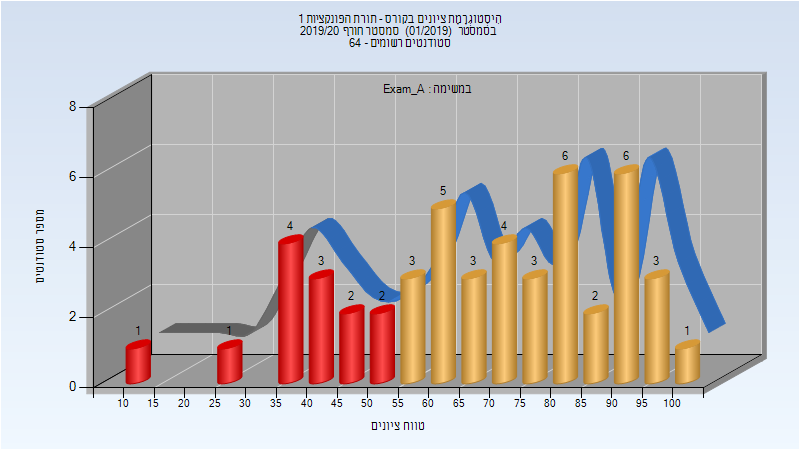
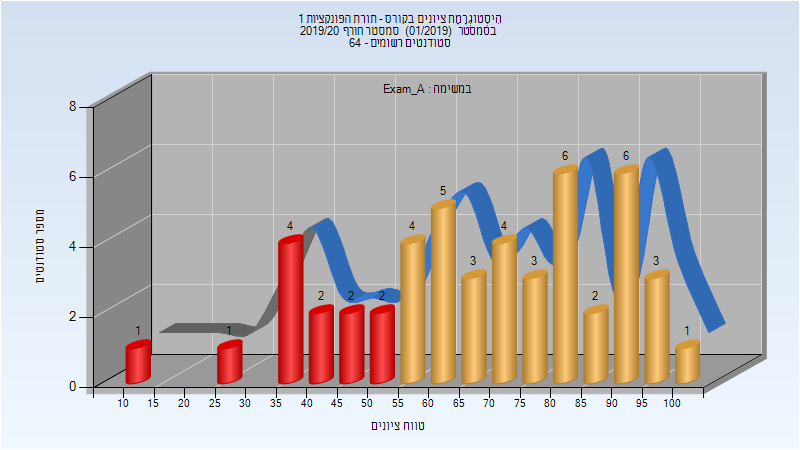
Deploy michael-maltsev/technion-histograms to github.com/michael-maltsev/technion-histograms.git:gh-pages

Changed region(s): [[0.375, 0.4978, 0.5, 0.7156], [0.5, 0.4978, 0.5625, 0.6222], [0.5625, 0.4044, 0.5938, 0.5289]]

diff --git a/104285/index.html b/104285/index.html
@@ -786,6 +786,58 @@
 </tr>
 </tbody>
 </table>
+<h3>מבחן מועד ב'</h3>
+<p><img src="201901/Exam_B.png" alt="201901 Exam_B" /></p>
+<table>
+<thead>
+<tr>
+<th>סטודנטים</th>
+<th>עברו/נכשלו</th>
+<th>אחוז עוברים</th>
+<th>ציון מינימלי</th>
+<th>ציון מקסימלי</th>
+<th>ממוצע</th>
+<th>חציון</th>
+</tr>
+</thead>
+<tbody>
+<tr>
+<td>21</td>
+<td>15/6</td>
+<td>71</td>
+<td>6</td>
+<td>100</td>
+<td>64.714</td>
+<td>71</td>
+</tr>
+</tbody>
+</table>
+<h3>סופי מועד ב'</h3>
+<p><img src="201901/Final_B.png" alt="201901 Final_B" /></p>
+<table>
+<thead>
+<tr>
+<th>סטודנטים</th>
+<th>עברו/נכשלו</th>
+<th>אחוז עוברים</th>
+<th>ציון מינימלי</th>
+<th>ציון מקסימלי</th>
+<th>ממוצע</th>
+<th>חציון</th>
+</tr>
+</thead>
+<tbody>
+<tr>
+<td>21</td>
+<td>16/5</td>
+<td>76</td>
+<td>6</td>
+<td>100</td>
+<td>66</td>
+<td>74</td>
+</tr>
+</tbody>
+</table>
 <h3>סופי</h3>
 <p><img src="201901/Finals.png" alt="201901 Finals" /></p>
 <table>

diff --git a/104122/index.html b/104122/index.html
@@ -251,11 +251,11 @@
 <tbody>
 <tr>
 <td>49</td>
-<td>36/13</td>
-<td>73</td>
+<td>37/12</td>
+<td>76</td>
 <td>13</td>
 <td>100</td>
-<td>67.735</td>
+<td>68.061</td>
 <td>71</td>
 </tr>
 </tbody>
@@ -277,11 +277,11 @@
 <tbody>
 <tr>
 <td>49</td>
-<td>41/8</td>
-<td>84</td>
+<td>42/7</td>
+<td>86</td>
 <td>12</td>
 <td>100</td>
-<td>73.306</td>
+<td>73.592</td>
 <td>77</td>
 </tr>
 </tbody>

diff --git a/234123/index.html b/234123/index.html
@@ -448,12 +448,12 @@
 </thead>
 <tbody>
 <tr>
-<td>225</td>
-<td>198/27</td>
+<td>224</td>
+<td>198/26</td>
 <td>88</td>
 <td>22</td>
 <td>99</td>
-<td>77.796</td>
+<td>77.929</td>
 <td>82</td>
 </tr>
 </tbody>

diff --git a/104285/README.md b/104285/README.md
@@ -244,6 +244,22 @@
 | ---- | ---- | ---- | ---- | ---- | ---- | ---- |
 | 56 | 44/12 | 79 | 19 | 100 | 68.75 | 70.5 |
 
+### מבחן מועד ב'
+
+![201901 Exam_B](201901/Exam_B.png)
+
+| סטודנטים | עברו/נכשלו | אחוז עוברים | ציון מינימלי | ציון מקסימלי | ממוצע | חציון |
+| ---- | ---- | ---- | ---- | ---- | ---- | ---- |
+| 21 | 15/6 | 71 | 6 | 100 | 64.714 | 71 |
+
+### סופי מועד ב'
+
+![201901 Final_B](201901/Final_B.png)
+
+| סטודנטים | עברו/נכשלו | אחוז עוברים | ציון מינימלי | ציון מקסימלי | ממוצע | חציון |
+| ---- | ---- | ---- | ---- | ---- | ---- | ---- |
+| 21 | 16/5 | 76 | 6 | 100 | 66 | 74 |
+
 ### סופי
 
 ![201901 Finals](201901/Finals.png)

diff --git a/104122/README.md b/104122/README.md
@@ -75,7 +75,7 @@
 
 | סטודנטים | עברו/נכשלו | אחוז עוברים | ציון מינימלי | ציון מקסימלי | ממוצע | חציון |
 | ---- | ---- | ---- | ---- | ---- | ---- | ---- |
-| 49 | 36/13 | 73 | 13 | 100 | 67.735 | 71 |
+| 49 | 37/12 | 76 | 13 | 100 | 68.061 | 71 |
 
 ### סופי מועד א'
 
@@ -83,7 +83,7 @@
 
 | סטודנטים | עברו/נכשלו | אחוז עוברים | ציון מינימלי | ציון מקסימלי | ממוצע | חציון |
 | ---- | ---- | ---- | ---- | ---- | ---- | ---- |
-| 49 | 41/8 | 84 | 12 | 100 | 73.306 | 77 |
+| 49 | 42/7 | 86 | 12 | 100 | 73.592 | 77 |
 
 ### סופי
 

diff --git a/234123/README.md b/234123/README.md
@@ -148,5 +148,5 @@
 
 | סטודנטים | עברו/נכשלו | אחוז עוברים | ציון מינימלי | ציון מקסימלי | ממוצע | חציון |
 | ---- | ---- | ---- | ---- | ---- | ---- | ---- |
-| 225 | 198/27 | 88 | 22 | 99 | 77.796 | 82 |
+| 224 | 198/26 | 88 | 22 | 99 | 77.929 | 82 |
 
